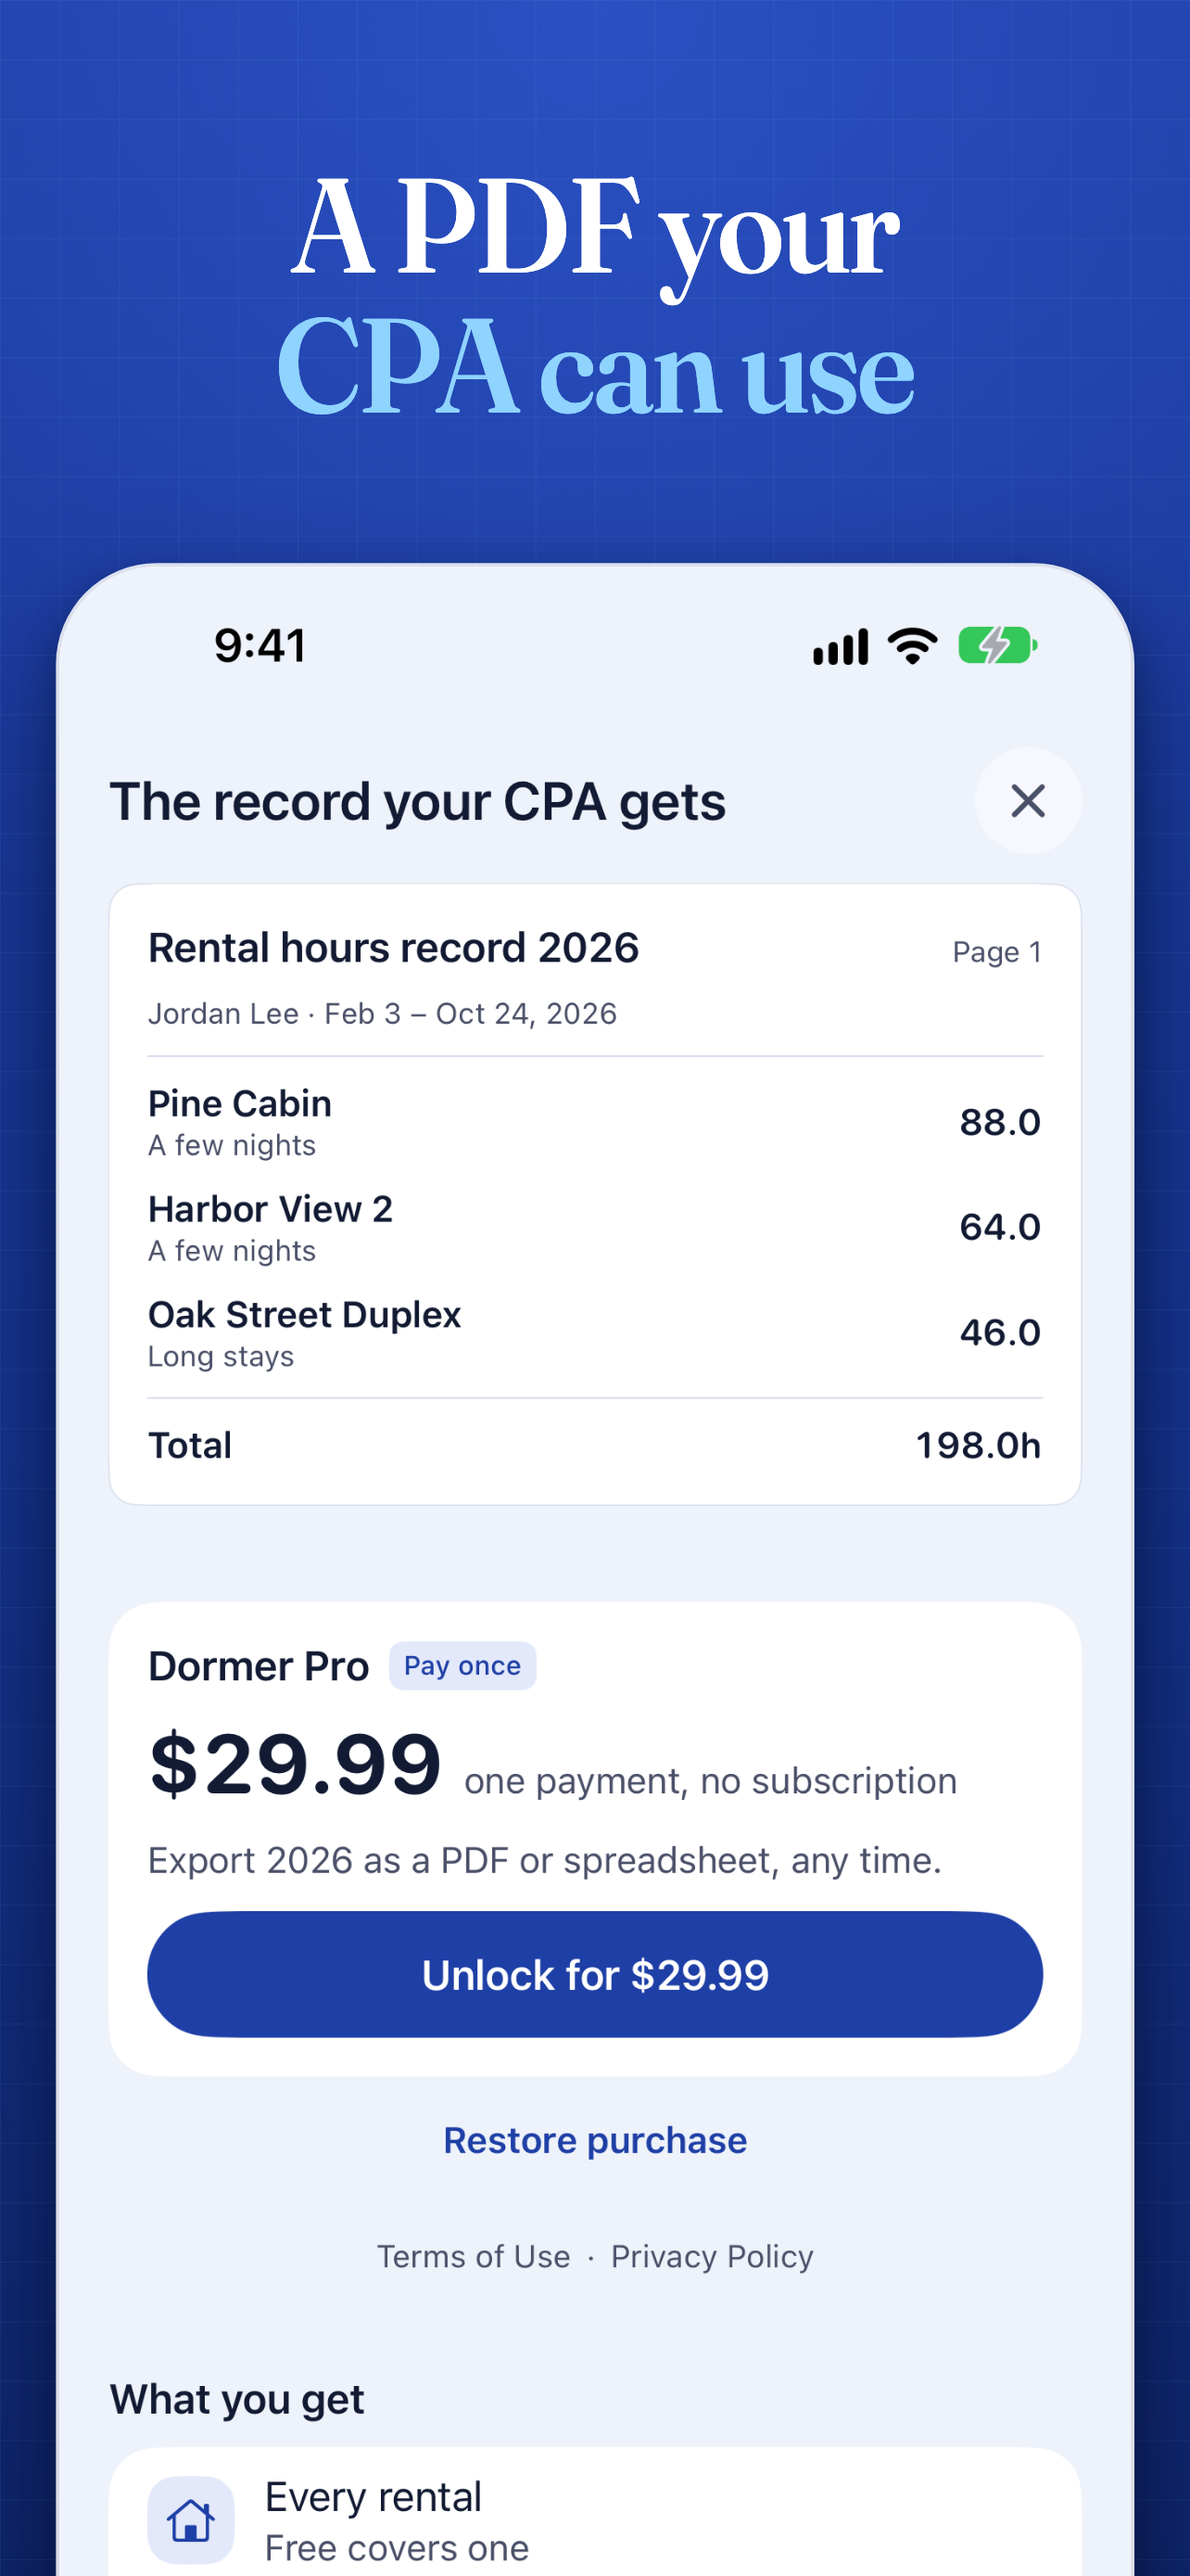
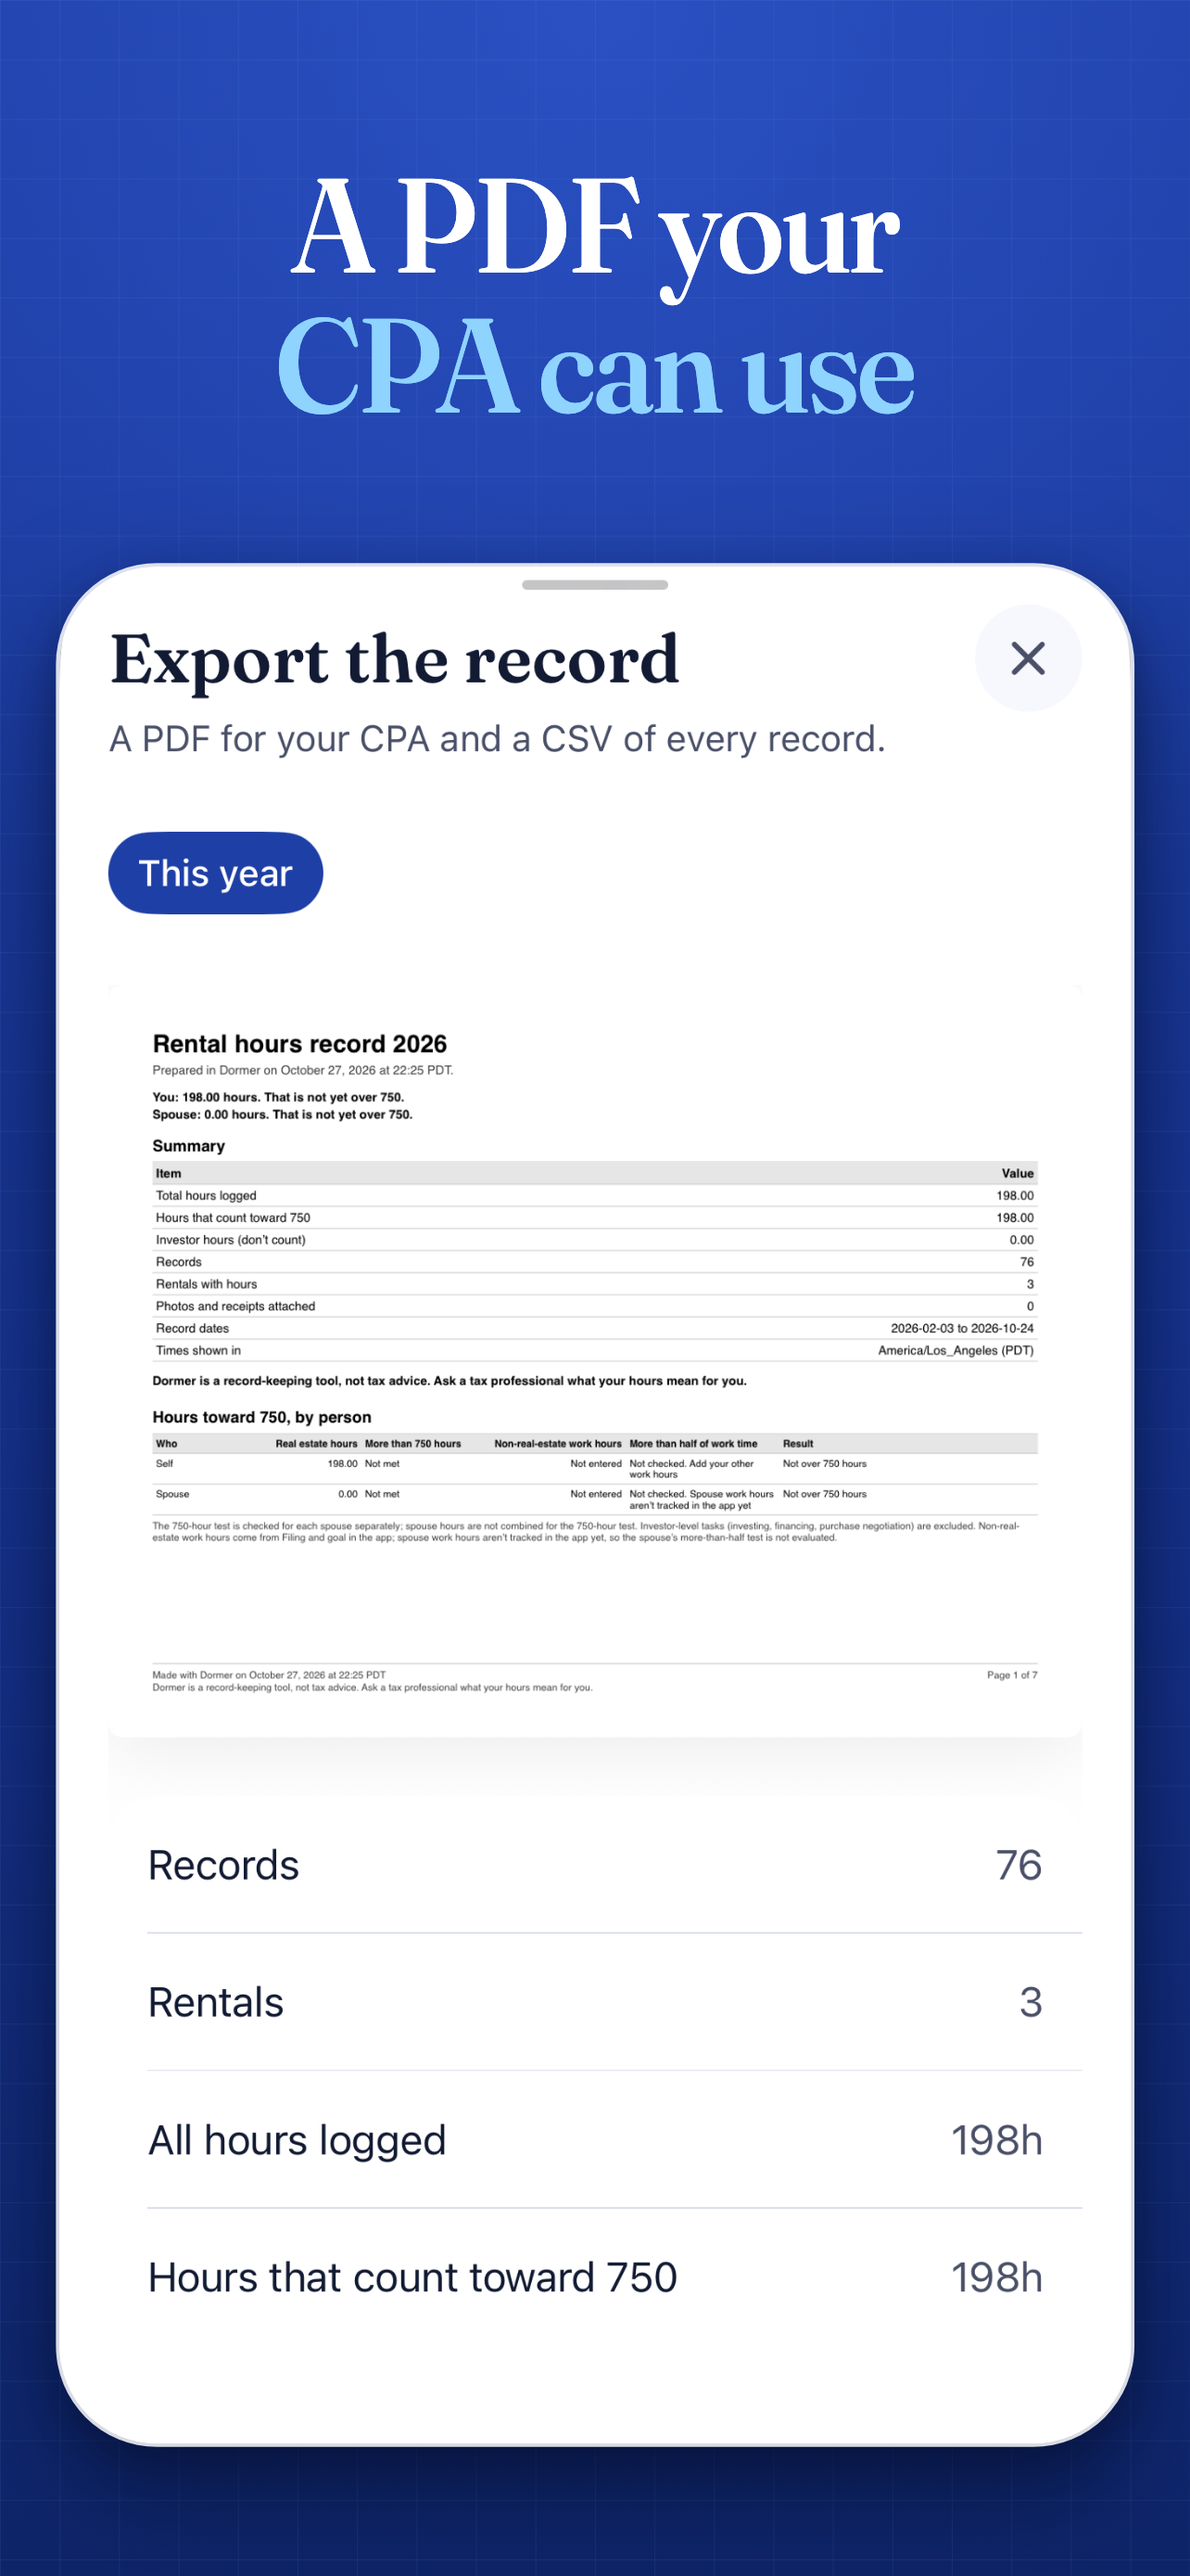
Replace store panel 6 with the export sheet so the set carries no pricing

diff --git a/Sources/Views/HistoryView.swift b/Sources/Views/HistoryView.swift
@@ -137,6 +137,12 @@ private struct RecordsScreen: View {
             guard !appliedInitialFilter else { return }
             appliedInitialFilter = true
             if let initialPropertyId { filter.propertyId = initialPropertyId }
+            #if DEBUG
+            // App Store capture: `-LHOpenRecordExport` opens the export sheet (Pro) on launch.
+            if ProcessInfo.processInfo.arguments.contains("-LHOpenRecordExport") {
+                DispatchQueue.main.asyncAfter(deadline: .now() + 0.6) { showExport = true }
+            }
+            #endif
         }
         // Screen anatomy: the scaffold owns the title, the back icon, the one trailing action and the gaps.
         .lhTabScreen(RR.t("records.title", "Records"), back: showsBackButton ? LHBackAction(label: RR.t("records.back", "Back"), identifier: "records.back") { dismiss() } : nil,

diff --git a/app-store-assets/2.2-dormer/src/render.py b/app-store-assets/2.2-dormer/src/render.py
@@ -11,7 +11,7 @@ panels=[
  ("03-log",    dict(h=H("Log by voice ","or a quick note"), img='03-log.png', crop=[188/2868,2520/2868])),
  ("04-inbox",  dict(h=H("Your calendar ","finds rental work"), img='04-inbox.png')),
  ("05-rentals",dict(h=H("One record ","per rental"), img='05-rentals.png')),
- ("06-cpa",    dict(h=H("A PDF your ","CPA can use"), img='06-cpa.png')),
+ ("06-cpa",    dict(h=H("A PDF your ","CPA can use"), img='06-export.png', raw='final4', crop=[188/2868,2500/2868])),
  ("07-icloud", dict(h=H("Your iCloud. ","No sign-in."), img='07-icloud.png', crop=[0,640/2868], note='Your records live on this iPhone and in your own iCloud. We never see them.', house=ART+'/craft_complete_dark.png',
                     nt='45.5%', hw='84vw', htop='54%', gt='70%')),
 ]
@@ -26,7 +26,7 @@ with sync_playwright() as pw:
             if ONLY and n not in ONLY.split(','): continue
             d=dict(d)
             if 'img' in d:
-                d['img']=(RAWPAD if mode=='ipad' else RAW)+'/'+d['img']
+                d['img']=(RAWPAD if mode=='ipad' else (B+'/raw/'+d.pop('raw') if 'raw' in d else RAW))+'/'+d['img']
                 from PIL import Image
                 iw,ih=Image.open(d['img']).size; d['ar']=iw; d['arh']=ih
             pg.goto('file://'+B+'/src/index.html?m='+mode+'&d='+urllib.parse.quote(json.dumps(d)))

diff --git a/app-store-assets/2.2-dormer/README.md b/app-store-assets/2.2-dormer/README.md
@@ -4,5 +4,5 @@ Captured from int/2.1-v2 d123714 plus DEBUG-only capture seeds on branch shots/2
 on a stock iPhone 17 Pro Max iOS 27.0 simulator with a pinned 9:41 status bar. Capture: src/cap.sh. Render: python3 src/render.py
 (paths point at ~/AgentScratch/landlordhours/2026-10-27/screenshots). The icon in src/art/icon.png is the approved master
 design/brand/dormer/approved/dormer-v3-embossed-approved.png, byte-identical. House art is the shipped craft_complete stills.
-Visual gate: round 3 PASS-WITH-MARGINALS (Opus visual-gate, fresh context). Copy gate (Jev on): 11 strings, 0 flags.
+Visual gate: round 3 PASS-WITH-MARGINALS; panel 6 replaced (no pricing: the Pro export sheet instead of the paywall) and re-gated PASS-WITH-MARGINALS.
 No iPad set: the current iPad layout is a stretched phone layout (two-pane is planned); the iPad slot still holds the 2.0 set.
